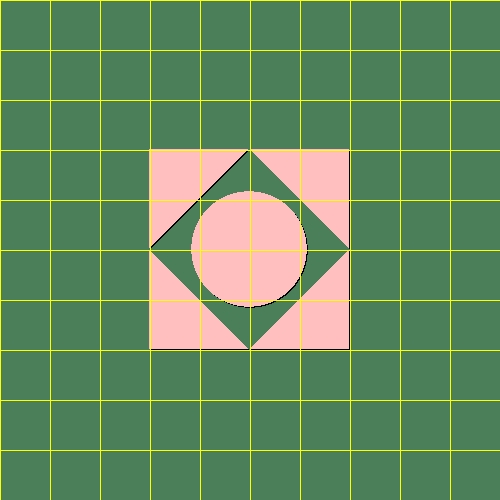
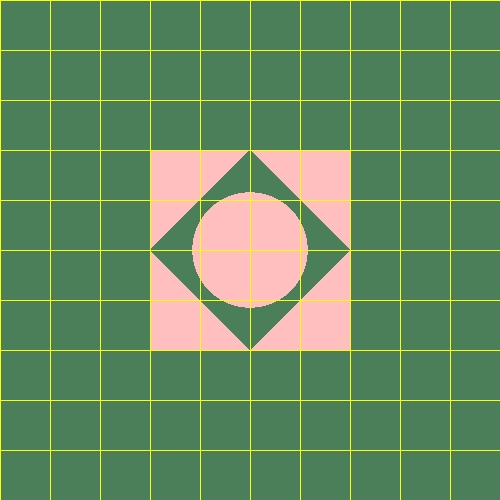
Ex5 finished Beemet !

diff --git a/src/unittests/RenderTests.java b/src/unittests/RenderTests.java
@@ -1,0 +1,46 @@
+package unittests;
+
+import org.junit.Test;
+
+import elements.*;
+import geometries.*;
+import primitives.*;
+import renderer.ImageWriter;
+import renderer.Render;
+import scene.Scene;
+
+/**
+ * Test rendering a basic image
+ * 
+ * @author Dan
+ */
+public class RenderTests {
+
+    /**
+     * Produce a scene with basic 3D model and render it into a jpeg image with a
+     * grid
+     */
+    @Test
+    public void basicRenderTwoColorTest() {
+        Scene scene = new Scene("Test scene");
+        scene.setCamera(new Camera(Point3D.ZERO, new Vector(0, 0, 1), new Vector(0, -1, 0)));
+        scene.setDistance(100);
+        scene.setBackground(new Color(75, 127, 90));
+        scene.setAmbientLight(new AmbientLight(new Color(255, 191, 191), 1));
+
+        scene.addGeometries(new Sphere(50, new Point3D(0, 0, 100)));
+
+        scene.addGeometries(
+                new Triangle(new Point3D(100, 0, 100), new Point3D(0, 100, 100), new Point3D(100, 100, 100)),
+                new Triangle(new Point3D(100, 0, 100), new Point3D(0, -100, 100), new Point3D(100, -100, 100)),
+                new Triangle(new Point3D(-100, 0, 100), new Point3D(0, 100, 100), new Point3D(-100, 100, 100)),
+                new Triangle(new Point3D(-100, 0, 100), new Point3D(0, -100, 100), new Point3D(-100, -100, 100)));
+
+        ImageWriter imageWriter = new ImageWriter("base render test", 500, 500, 500, 500);
+        Render render = new Render(imageWriter, scene);
+
+        render.renderImage();
+        render.printGrid(50, java.awt.Color.YELLOW);
+        render.writeToImage();
+    }
+}

diff --git a/src/unittests/ImageWriterTest.java b/src/unittests/ImageWriterTest.java
@@ -7,11 +7,18 @@ import java.awt.*;
 
 import static org.junit.Assert.*;
 
+/**
+ * Write to Image (Color pixels) Test
+ *
+ * @author Shmuel & Yossef
+ */
 public class ImageWriterTest {
 
 
     @Test
     public void writeToImage() {
+
+        // TC01: Simple grid test
         String imageName = "Test 01 for writeToImage";
 
         //the size of the view plane
@@ -19,15 +26,17 @@ public class ImageWriterTest {
         double height = 1000;
 
         //the resolution
-        int nX =800;
-        int nY =500;
+        int nX = 800;
+        int nY = 500;
 
         ImageWriter imageWriter = new ImageWriter(imageName, width, height, nX, nY);
+
         for (int column = 0; column < nY; ++column) {
             for (int row = 0; row < nX; ++row) {
                 if ((column % 50 == 0 && column > 0) || (row % 50 == 0 && row >0)) {
                     imageWriter.writePixel(row, column, Color.pink);
-                }else {
+                }
+                else {
                     imageWriter.writePixel(row,column, Color.gray);
                 }
             }

diff --git a/src/renderer/Render.java b/src/renderer/Render.java
@@ -10,6 +10,7 @@ import java.util.List;
 
 
 /**
+ * Class for rendering Scene
  *
  * @author Yossef Levran, ID: 332484609, Email Address: yossef.levran@gmail.com
  * @author Shmuel Segal, ID: 052970464, Email address: shmuelse@gmail.com
@@ -72,7 +73,7 @@ public class Render {
                     _imageWriter.writePixel(column,row,background);
                 } else {
                     Point3D closestPoint = getClosestPoint(intersectionPoints);
-                    _imageWriter.writePixel(column-1,row-1,calcColor(closestPoint));
+                    _imageWriter.writePixel(column,row,calcColor(closestPoint));
 
                 }
             }
@@ -101,8 +102,6 @@ public class Render {
                 {
                     _imageWriter.writePixel(column,row,separator);
                 }
-               // _imageWriter.writePixel(column,row,separator);
-              //  _imageWriter.writePixel(row,column,separator);
             }
     }
 

diff --git a/src/scene/Scene.java b/src/scene/Scene.java
@@ -20,9 +20,6 @@ public class Scene {
     private String _name;
     private Color _background;
     private AmbientLight _ambientLight;
-
-
-
     private Geometries _geometries;
     private Camera _camera;
     private double _distance;
